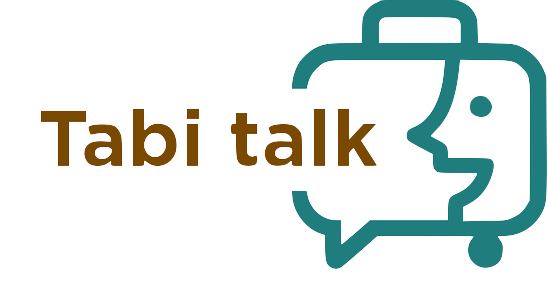
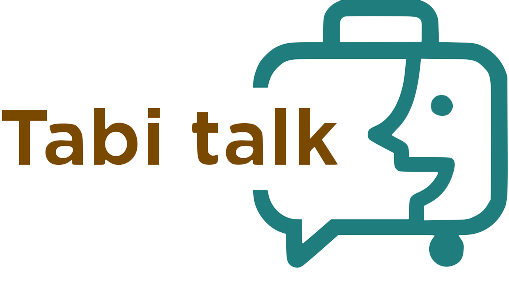
auth.css修正

diff --git a/ChatApp/static/css/auth.css b/ChatApp/static/css/auth.css
@@ -1,45 +1,43 @@
+.body {
+  background-size: cover;
+  margin: 0;
+  padding: 0;
+}
+
 .auth-wrapper {
-  max-width: 430px;
-  height: 100%;
+  max-width: 402px;
+  max-height: 100vh;
+  margin: 0 auto;
+  padding: 40px;
   display: flex;
-  flex-direction: column;
-  justify-content: center;
   align-items: center;
   font-family: "M PLUS 1p", sans-serif;
-  font-size: 62.5%;
 }
 
 .auth-container {
-  width: 80%;
-  min-height: 100%;
   display: flex;
   flex-direction: column;
   align-items: center;
 }
 
 .auth-main-logo{
-  width: 100%;
-  height: 100%;
-  margin: 1.5em;
+  width: 70%;
+  margin: 1rem;
 }
 
 .auth-form {
-  width: 100%;
+  width: 80%;
   display: flex;
   flex-direction: column;
   align-items: center;
-  justify-content: space-around;
-  font-family: "M PLUS 1p", sans-serif;
   font-size: 1rem;
+  margin: 1rem 0;
 }
 
 .auth-title {
   display: flex;
-  flex-direction: column;
-  justify-content: center;
-  align-items: center;
   font-size: 1.5rem;
-  margin: 1.2em;
+  margin: 1rem;
 }
 
 .auth-form-inputs {
@@ -51,7 +49,7 @@
   border: solid 2px #d9d9d9;
   outline: none;
   border-radius: 5px;
-  line-height: 32px;
+  line-height: 2rem;
   font-size: 1rem;
   width: 15rem;
   padding: 0.2rem 0.8rem;
@@ -72,11 +70,19 @@
   border-radius: 5px;
   margin: 1.5em;
   font-family: "M PLUS 1p", sans-serif;
-  font-size: 1.2rem;
+  font-size: 1.2em;
+}
+
+.auth-button:hover{
+  opacity: 70%;
 }
 
 a {
   text-decoration: none;
   color: #000000; 
   margin: 1em;
+}
+
+a:hover{
+  opacity: 70%;
 }
